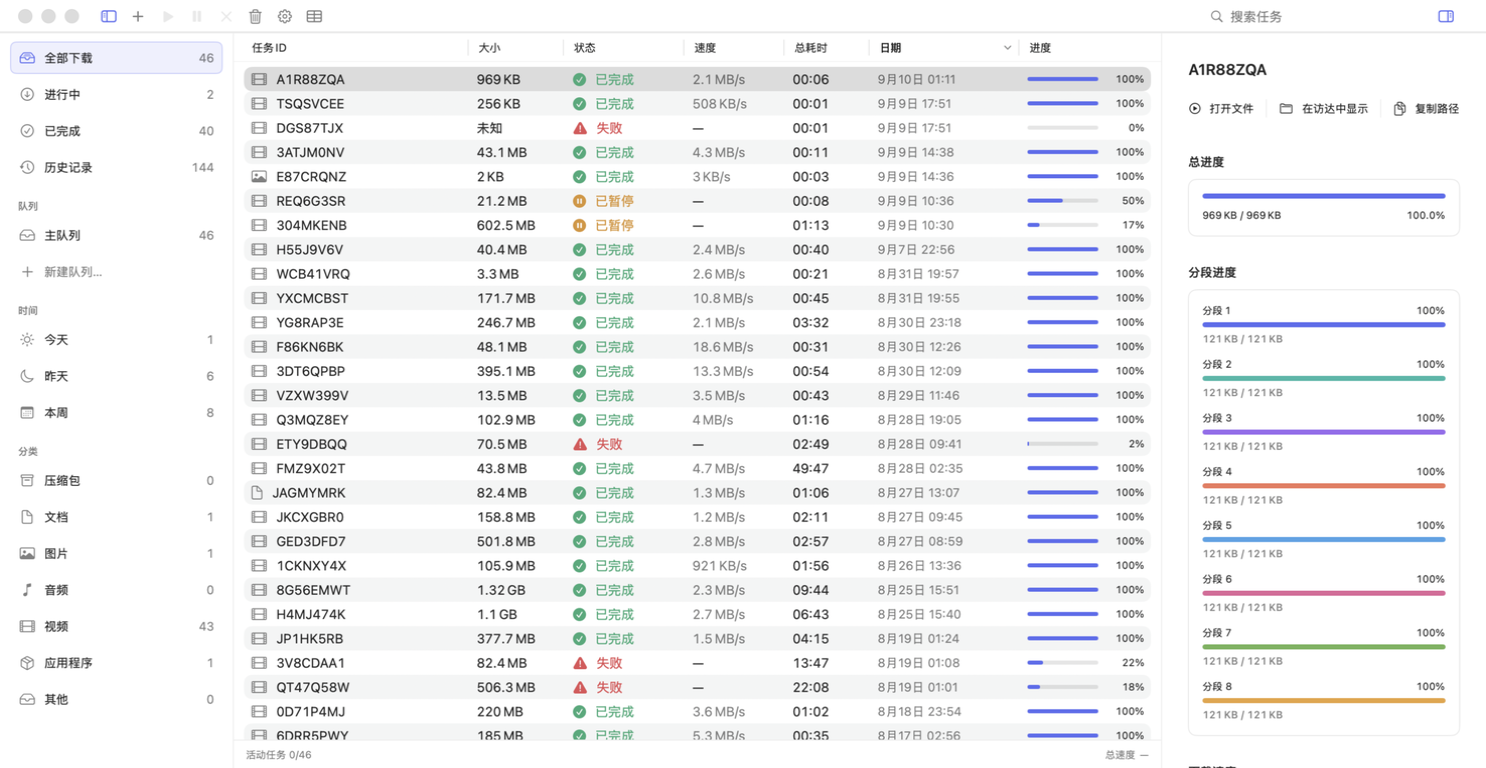
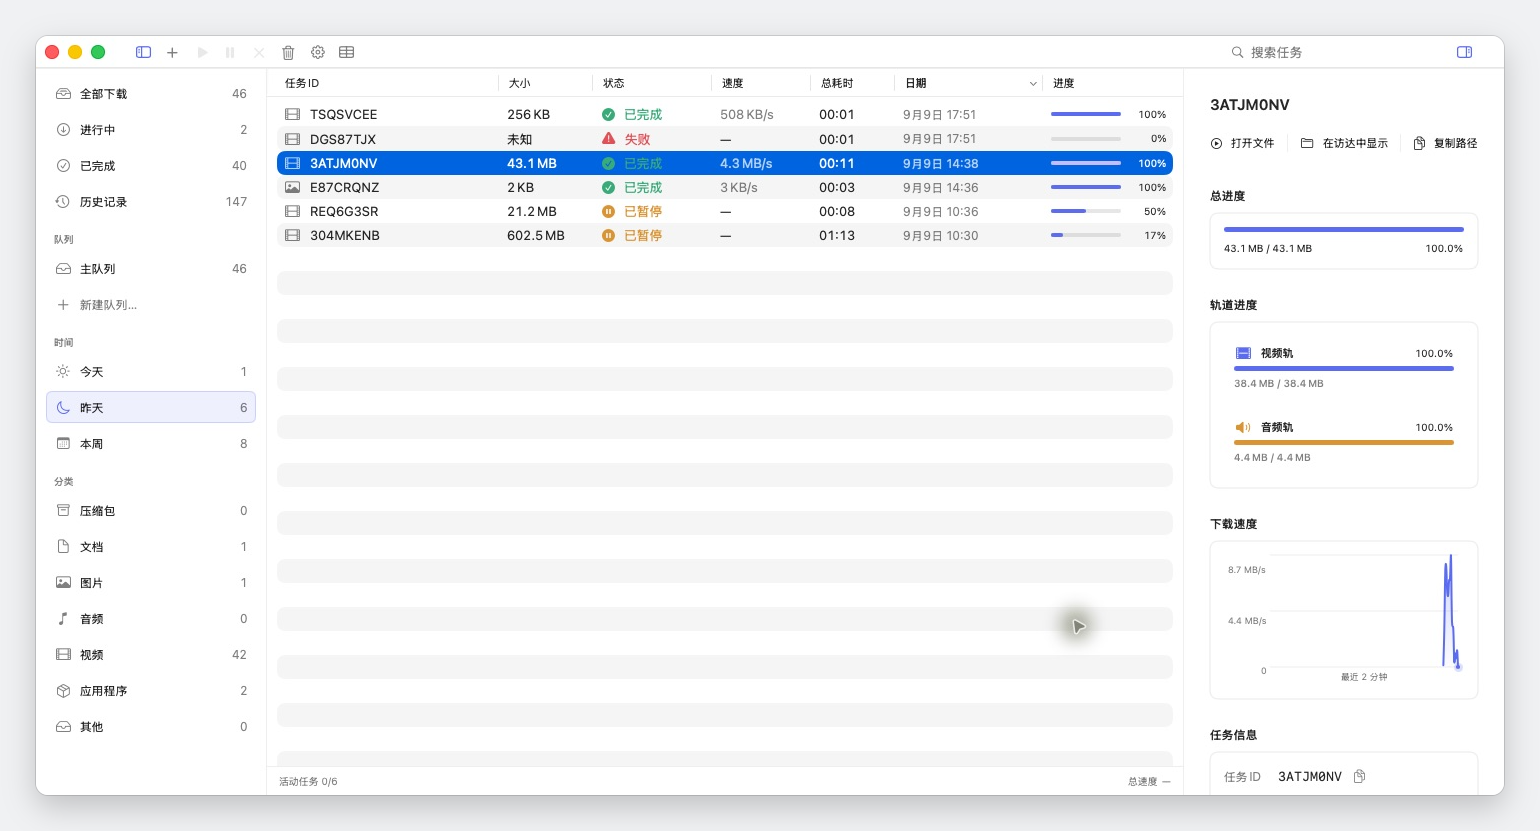
Document download workflow with bilingual interface demos

diff --git a/README.en.md b/README.en.md
@@ -5,63 +5,70 @@
   <p><a href="README.md">简体中文</a> · <a href="https://github.com/Raters0/MacIDM/releases/tag/v1.0.0">Download v1.0.0</a> · <a href="#quick-start">Quick start</a></p>
 </div>
 
-I wanted to build an IDM-like general-purpose downloader for the Mac: a simple interface, modest memory use, and a way to save video and audio found on web pages. MacIDM is that project.
+MacIDM is a general-purpose macOS downloader written in Swift and SwiftUI. It supports browser media discovery, segmented downloads, resume, queues, and rate limits, with a simple interface and low memory usage as design goals. [Internet Download Manager (IDM)](https://www.internetdownloadmanager.com/) [has no macOS version](https://www.internetdownloadmanager.com/register/new_faq/functions2.html), so MacIDM was built to combine browser-side media discovery and native segmented downloading on the Mac. The Chrome extension finds files, video, and audio on web pages; the app handles resource inspection, download confirmation, and task management.
 
-The app uses Swift and SwiftUI. My download engine handles ordinary files, segmented transfers, resume, and queues; the Chrome extension finds media on web pages. Most of the work has gone into download scheduling, media discovery, and memory usage, so those are the parts described below.
+<p><img src="README-assets/app-overview-en.png" alt="MacIDM main window: task list, track progress and speed graph" width="1000" /></p>
 
-<table><tr><td><img src="README-assets/app-overview.png" alt="MacIDM main window: task list and segment progress" width="1000" /></td></tr></table>
-
-## What I've been working on
+## Features
 
 ### Downloads and memory
 
 Ordinary downloads support segmentation, pause and resume, queues, and rate limits. Parallel requests can be set from 1 to 64. Slow segments can be split again, and connection policy adjusts when a server returns 429 or 503. Range responses and resource identity are checked before segmented transfers and resume to avoid assembling an incorrect file.
 
-Keeping memory use down has been a particular focus. HLS and DASH segments are written to disk as they arrive, with per-task and global buffer limits that adjust to the machine's memory. I haven't put a fixed MB figure here: usage also depends on the number of tasks and the resources being downloaded.
+HLS and DASH segments are streamed to disk as they arrive. Per-task and global buffer limits adjust to physical memory, avoiding the need to hold complete media files or large segments in memory.
 
 ### Finding media on a page
 
 Some media URLs appear directly in network requests; others are buried in player scripts or API responses. The extension observes network requests, fetch / XHR, response types and byte signatures, JSON, the DOM, and Performance entries, then normalizes and deduplicates the candidates.
 
-Alongside finding resources, I've worked on reducing duplicates, small audio files and media fragments in the list, and keeping candidates up to date as pages change. Beyond collecting links, I wanted the resources found in the browser to be usable in the local download manager.
+The extension reduces noise from duplicate candidates and small audio files, groups media fragments, and updates the list as pages change. Discovery and resource selection happen in the browser; the local app and its download backends execute the download.
 
-The on-page download button starts collapsed. Click it to see candidates, select a resource, then confirm the task in the app. Here's the floating panel opening and closing:
+The on-page download button starts collapsed. This walkthrough shows opening the panel, expanding a resource, clicking Download, and arriving at the app's new task window:
 
-<p><img src="README-assets/page-sniff.gif" alt="On-page media panel opening from its collapsed button" width="900" /></p>
+<p><img src="README-assets/page-sniff-en.gif" alt="English walkthrough: open the media panel, select a resource and open a new download task" width="900" /></p>
 
 Demo video: [Sintel](https://www.sintel.org/), Blender Foundation.
 
 The toolbar Popup also lists resources from the current page. “Download all links on this page” opens the whole-page link collection and filtering workflow.
 
-<table><tr><td><img src="README-assets/browser-popup.png" alt="MacIDM extension Popup" width="380" /></td></tr></table>
+<table><tr><td><img src="README-assets/browser-popup-en.png" alt="MacIDM extension Popup in English" width="380" /></td></tr></table>
 
-### The app and a few extras
+### Task management and other features
 
 The main window contains the task list, filters, and download details, including segment progress and a speed graph. When adding a task, you can change the destination, filename, and concurrency. HLS / DASH sources with multiple quality options list them before downloading.
 
-<table><tr><td><img src="README-assets/media-discovery.png" alt="New download task: quality selection and destination" width="520" /></td></tr></table>
-
-There are also proxy settings, global and per-task rate limits, Chinese and English interfaces, a CLI, and a local HTTP API. If you prefer a terminal or scripts, see the command-line section below.
+There are also proxy settings, a global rate limit, Chinese and English interfaces, a CLI, and a local HTTP API. The command-line tools can read status, control tasks, and support automation scripts.
 
 ## How it works
 
+A download goes through discovery, inspection and confirmation, then execution. A detected URL may point to a file, a media manifest, or a site page that needs further extraction.
+
 ```mermaid
-flowchart LR
-    Extension[Chrome extension] --> Host[Native Messaging Host]
-    Host --> App[MacIDM App]
-    App --> Engine[IDMEngine]
-    CLI[macidm CLI] --> Engine
-    App --> Tools[yt-dlp / FFmpeg]
-    Engine --> File[Local files]
-    Tools --> File
+flowchart TD
+    Page[Web requests / player / page data] --> Sniff[Chrome extension: discover, filter, deduplicate]
+    Sniff --> Bridge[Native Messaging Host / authenticated local transport]
+    Bridge --> Inspect[App: identify resource type]
+    URL[Pasted URL] --> Inspect
+    Inspect -->|HTTP / HLS / DASH / Bilibili| NativeInspect[Native probing, manifest parsing, or site adapter]
+    Inspect -->|YouTube / site fallback| SiteInspect[yt-dlp: extract available formats]
+    NativeInspect --> Draft[New task: choose format, filename and destination]
+    SiteInspect --> Draft
+    Draft --> Confirm[User confirms and task enters queue]
+    Confirm --> Route{App selects backend and manages task state}
+    Route -->|Native HTTP| HTTP[Range validation / segments / resume]
+    Route -->|Native HLS / static DASH| Media[Segments / decryption / audio and video tracks]
+    Route -->|Site extractor| YT[yt-dlp: download selected media]
+    Media --> FF[FFmpeg / ffprobe: remux, merge, and verify]
+    YT --> FF
+    HTTP --> Output
+    FF --> Output[Local file and final task state]
 ```
 
-- **Ordinary files**: the engine probes Range support, validates segment responses, and writes at absolute offsets. It supports resume and optional SHA-256 verification.
-- **HLS / static DASH**: downloads media segments, handles HLS AES-128 and byte ranges, and pairs DASH audio/video tracks. FFmpeg handles remuxing or merging when needed. Bilibili has dedicated adapter code.
-- **YouTube and similar pages**: [yt-dlp](https://github.com/yt-dlp/yt-dlp) handles format extraction and downloads. When regular discovery finds no resource on other video sites, its generic extractor is also tried as a fallback. Thanks to the project and its contributors for all that site-support work.
-- **Extension and app**: communicate through a Native Messaging Host and an authenticated local Unix socket. Page candidates are temporary; a download task is created after confirmation.
+**Resource inspection.** Ordinary files are probed for size and Range support; HLS / DASH manifests are parsed for available qualities; Bilibili uses dedicated adapter code. YouTube uses [yt-dlp](https://github.com/yt-dlp/yt-dlp) to extract formats. Its generic extractor is also tried when regular discovery finds no resource on other video sites.
 
-The engine, app, CLI, and bridge are separate Swift targets. Page observation, Popup UI, and shared data handling also live separately in the extension so they can be tested and changed independently.
+**Task execution.** The app selects the download backend and manages queues, concurrency, pause, resume, and final task state. `IDMEngine` handles ordinary HTTP, HLS, and static DASH: it validates HTTP segment responses and writes at absolute offsets, supports HLS AES-128 and byte ranges, and handles separate DASH audio/video tracks. The site-extractor backend uses yt-dlp to download the selected media. HLS, DASH, and site media then use FFmpeg for remuxing or merging as needed and ffprobe for verification. Media buffers are bounded by per-task and global memory budgets.
+
+**Local communication.** The extension communicates through a Native Messaging Host and the app's authenticated Unix socket. Candidates stay in memory until the user confirms a download task. The CLI uses the same download engine independently; the local HTTP API reads and controls tasks in the app.
 
 ## Quick start
 
@@ -103,14 +110,14 @@ The script points the Host manifest at the `macidm-host` inside the installed `M
 ## Usage guide
 
 - **Confirmation window**: before downloading you can change the filename, destination, maximum parallel requests (1–64), and queue priority, and optionally supply an expected SHA-256 for integrity checking; HLS/DASH sources list quality variants first.
-- **Queues and categories**: filter by status, queue, time, and category in the sidebar; set per-queue concurrency and completion actions.
+- **Queues and categories**: filter by status, queue, time, and category in the sidebar; set per-queue concurrency, ordering, and schedule windows.
 - **Rate limiting and proxy**: Settings offers a global token-bucket speed limit and proxy configuration; proxy passwords are stored only in the system Keychain.
 - **Logged-in resources**: for ordinary GET resources that need a session, the extension rebuilds request context only after you explicitly authorize cookies for the current site; POST, Authorization headers, complex custom headers, `blob:`, and DRM degrade safely.
-- **Filename privacy**: enable filename redaction in Settings so the list and detail show task IDs instead of sensitive filenames.
+- **Filename privacy**: enable filename redaction in Settings so the list and detail show job identifiers instead of filenames.
 
 ## CLI and local Agent API
 
-The CLI shares the download engine with the app and is well suited to scripting and automation:
+The CLI uses the same download engine independently of the app and can be used for scripting and automation:
 
 ```bash
 swift build --product macidm
@@ -206,11 +213,11 @@ docs/agent-http-api.md    Local Agent HTTP API reference
 
 Downloads and task management run locally. Filenames can be hidden in Settings, and ordinary logs omit page titles, full URLs, and local paths. A separate local diagnostic log keeps more detail for troubleshooting. Cookies, Authorization headers, proxy passwords, and bridge tokens are not logged verbatim by default.
 
-I also had AI-assisted debugging in mind: checking speed, retries, or task state usually doesn't require sharing the title or address of what's being downloaded. Start with the ordinary log, inspect detailed diagnostics for a specific task when needed, and check the contents before sharing.
+For AI-assisted debugging, checking speed, retries, or task state usually doesn't require sharing the title or address of what's being downloaded. Start with the ordinary log, inspect detailed diagnostics for a specific task when needed, and check the contents before sharing.
 
 ## Acknowledgements and license
 
-- Thanks to the [yt-dlp](https://github.com/yt-dlp/yt-dlp) project and its contributors for providing an essential foundation for site media parsing and video downloads;
+- [yt-dlp](https://github.com/yt-dlp/yt-dlp) provides site media extraction and download support;
 - FFmpeg / ffprobe are used for media remuxing and verification, under their own licenses;
 - Other third-party components remain subject to their own licenses.
 
